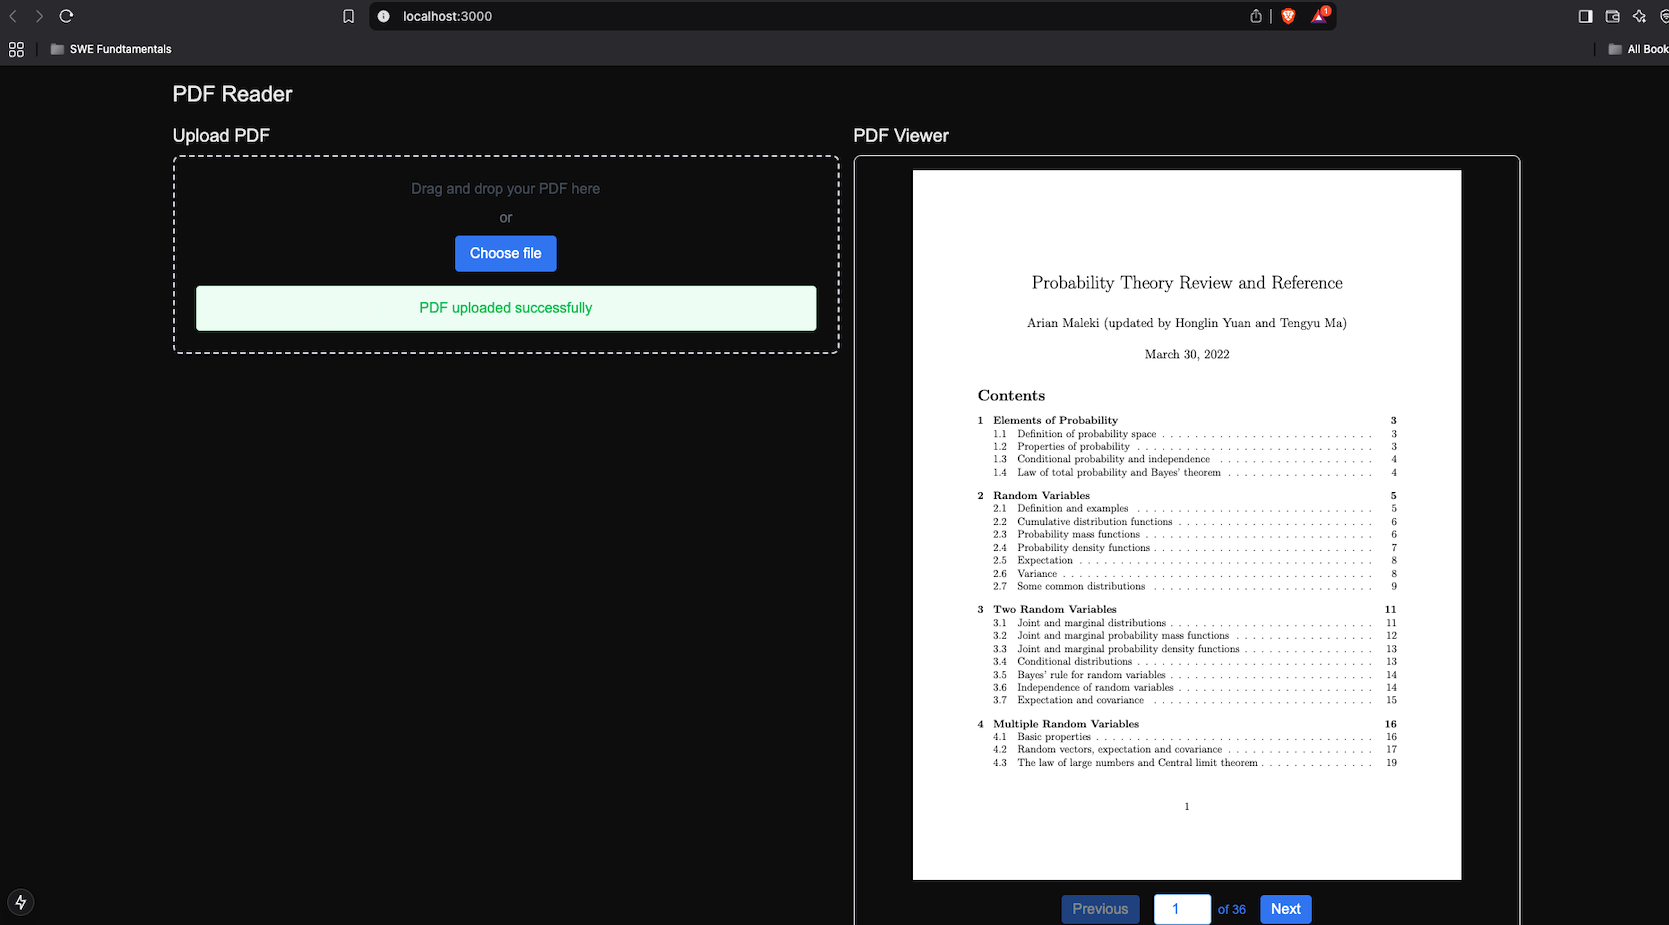
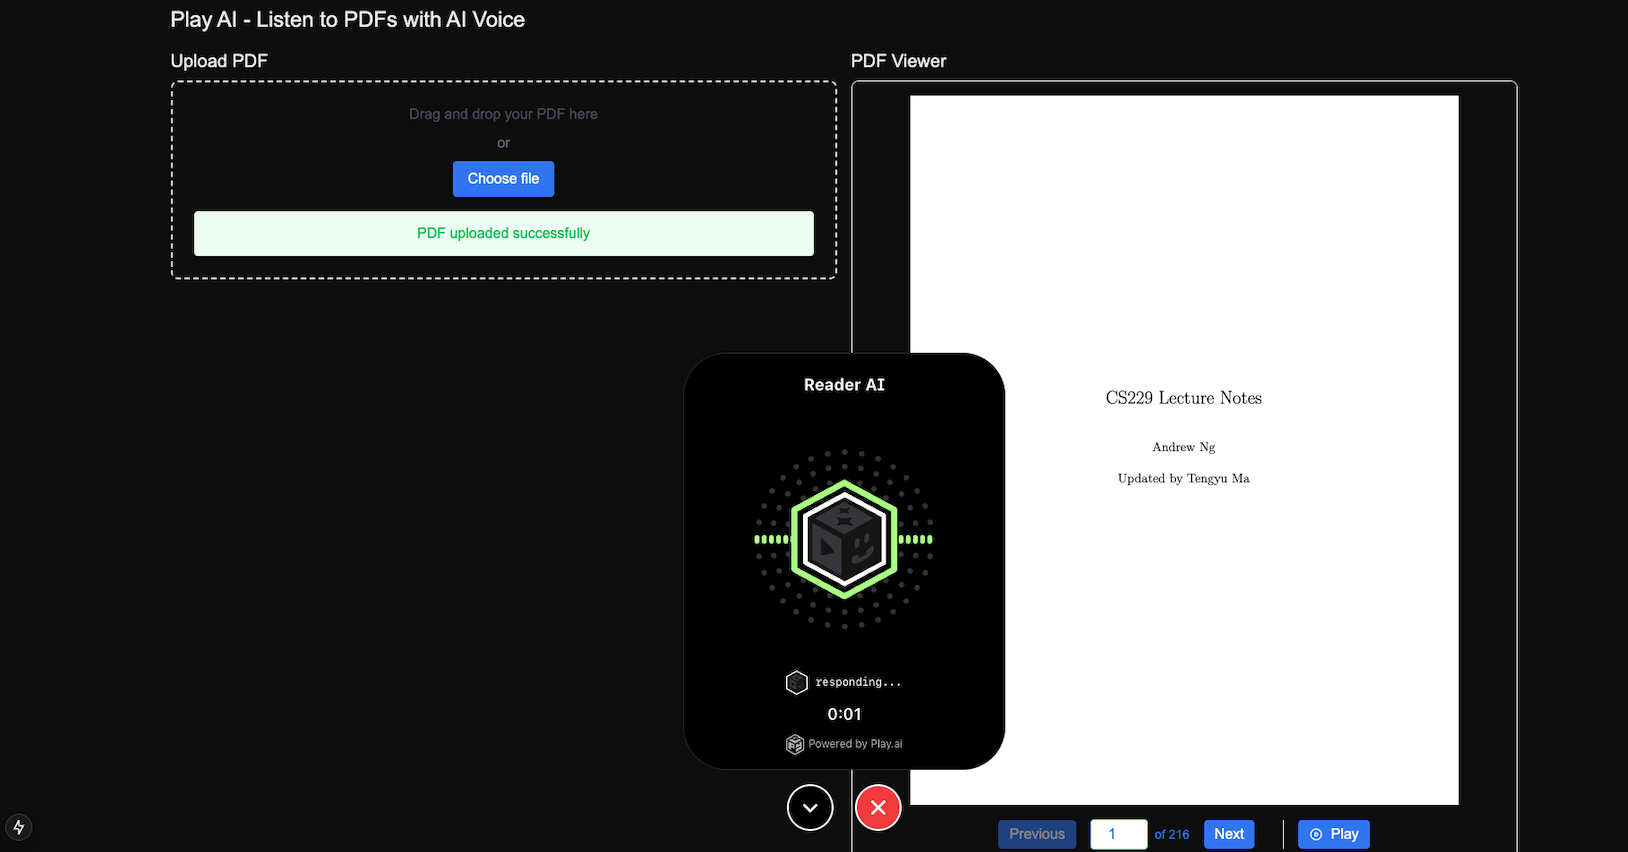
readme edit

Changed region(s): [[0.0, 0.0, 1.0, 1.0], [0.6143, 0.2746, 0.7985, 0.3967], [0.0, 0.946, 0.0307, 0.9765]]

diff --git a/README.md b/README.md
@@ -1,116 +1,63 @@
-# PlayAI Product Engineering Test Project
+# PlayAI Book Reader
 
-
-## PDF Viewer Implementation
+An interactive PDF reader with AI-powered text-to-speech and chat capabilities.
 
 ![PDF Viewer Demo](demo_pngs/demo.png)
 
-### Features
+## Features
+
+### Core Features
 - PDF file upload and validation
-- Real-time PDF rendering using PDF.js
-- Page navigation:
-  - Next/Previous page controls
-  - Direct page jumping
-  - Current page indicator
-- Responsive design with Tailwind CSS
-- Error handling and loading states
+- Real-time PDF rendering with page navigation
+- Text-to-speech playback of PDF content
+- AI-powered chat assistant for discussing PDF content
+- Responsive design for all screen sizes
 
-## Audio Controls Implementation
+### PDF Viewer
+- Upload and validate PDF files
+- Navigate between pages (next/previous)
+- Direct page number input
+- Current page indicator
+- Real-time page rendering
 
-### Loading State
-![Audio Loading Demo](demo_pngs/demo3.png)
-- Progress indicator during audio generation
-- Clear loading feedback
-
-### Playback Controls
-![Audio Playback Demo](demo_pngs/demo2.png)
-![Audio Playback Demo](demo_pngs/demo4.png)
+### Audio Controls
+- Text-to-speech conversion of page content
 - Play/Pause functionality
-- Current time and duration display
-- Seamless pause/resume behavior
+- Loading progress indicator
+- Error handling with clear feedback
 
-### Error Handling
-- Clear error messages
-- Error dismissal option
-- Graceful error recovery
+### AI Chat Assistant
+- Initial state: Prompts user to upload PDF
+- Post-upload: Enables discussion about current page
+- Strict context adherence: Only discusses uploaded PDF content
+- Safety feature: Returns to upload prompt if PDF is removed
 
-### Features
-- Initial audio generation with progress tracking
-- Time-based playback simulation
-- Maintains playback position when paused
-- Consistent UI with PDF viewer controls
+## Tech Stack
 
+### Frontend
+- Next.js 14
+- React
+- Tailwind CSS
+- PDF.js for PDF rendering
+- Play AI Web SDK for chat integration
 
-### Tech Stack
-- PDF.js (CDN) for PDF rendering
-- React for UI components
-- Next.js for application framework
-- Tailwind CSS for styling
+### Backend
+- Express.js
+- Play AI TTS API integration
+- WebSocket support for real-time communication
 
-## PlayAI Book Reader
+### APIs
+- Play AI Text-to-Speech API
+- Play AI Agent API (Web Embed)
 
-- Build a user-friendly web application with file upload capabilities.
-- Implement front-end logic for displaying PDF content and controlling audio playback.
-- Bonus: integrate the PlayAI Agent API for conversational interaction.
-- Demonstrate proficiency in full-stack development.
+## Getting Started
 
-### Technical Requirements:
+### Prerequisites
+- Node.js 18+
+- npm or yarn
+- Play AI API credentials
 
-- PDF Upload: The user should be able to upload a PDF file through the web interface.
-- Page Display: The uploaded PDF should be parsed and displayed on a per-page basis.
-    - Users should be able to navigate between pages (e.g., using next/previous buttons or a page number input).
-- Text-to-Speech: For each displayed page, the user should be able to initiate audio playback using the PlayAI Text-to-Speech API. The text-to-speech should play the content of the currently displayed page.
-    - Provide controls (play/pause) for the audio playback.
-- PlayAI Integration:
-    - Use [PlayAI's Text-to-Speech API](https://docs.play.ai/tts-api-reference/endpoints/v1/tts/stream/post-playdialog) using HTTP or Websocket to read the content of the page.
-- The application should use the API Key provided to make authenticated API calls.
-    - API Key:
-    - User ID:
-- Select a PlayAI voice, you can use one of the agents from the provided list.
-
-### (Bonus) Interactive Chat with the book:
-
-Implement an optional voice chat interface that allows the user to ask questions about the currently displayed page. This chat should use [the PlayAI Agent API](https://docs.play.ai/api-reference/introduction), you [could use our web-embed widget for that](https://docs.play.ai/api-reference/web-embed) or build something custom using the websocket API.
-
----
-
-### Functional Requirements:
-
-**User Interface (UI):**
-
-- The web app should have a clear and intuitive user interface.
-- The UI should include components for uploading a PDF, displaying pages, playing audio, and the optional voice chat widget.
-- The layout should be responsive for different screen sizes.
-
-### **Evaluation Criteria:**
-
-- Does the application meet the core requirements (PDF upload, page display, and audio playback)?
-- Is the optional chat feature (if implemented) working correctly?
-- Are there any bugs in the UI or functionality?
-- Is there any attention to detail in the UI.
-- How much time did it take to finish and deliver it?
-- Is the code well-structured, readable, and maintainable?
-
----
-
-**Bonus Points:**
-
-- Implement the interactive voice chat interface.
-- Implement a voice selection dropdown.
-- Implement a progress indicator while generating the audio for the pages.
-- Provide a UI to adjust the speed and temperature of the audio output.
-- Implement any additional features that improve UX (Show your creativity).
-
-
-**Deliverables:**
-
-- A fully functional web application hosted on a server (you could use Replit).
-- Source code for the application on github.
-- A brief README file explaining how to run the app, what technologies were used, and a quick overview of the design decisions.
-- Time Allotment: 8 hours — one aspect of evaluation is how fast are you in shipping product features.
-
-**Additional Notes:**
-
-You are free to choose any suitable full-stack technology (e.g., React, Vue.js with Node.js) but we prefer the NextJS, React, and Tailwind stack.
-
-You can utilize any open-source libraries for PDF processing, UI components, etc.
+### Environment Setup
+1. Clone the repository
+2. Create `.env.local` in `frontend/`: `NEXT_PUBLIC_PLAY_AI_WEB_EMBED_ID="your_embed_id"`
+2. Create `.env` in `backend/`: `PLAY_AI_API_KEY=your_api_key` and `PLAY_AI_USER_ID=your_user_id`
